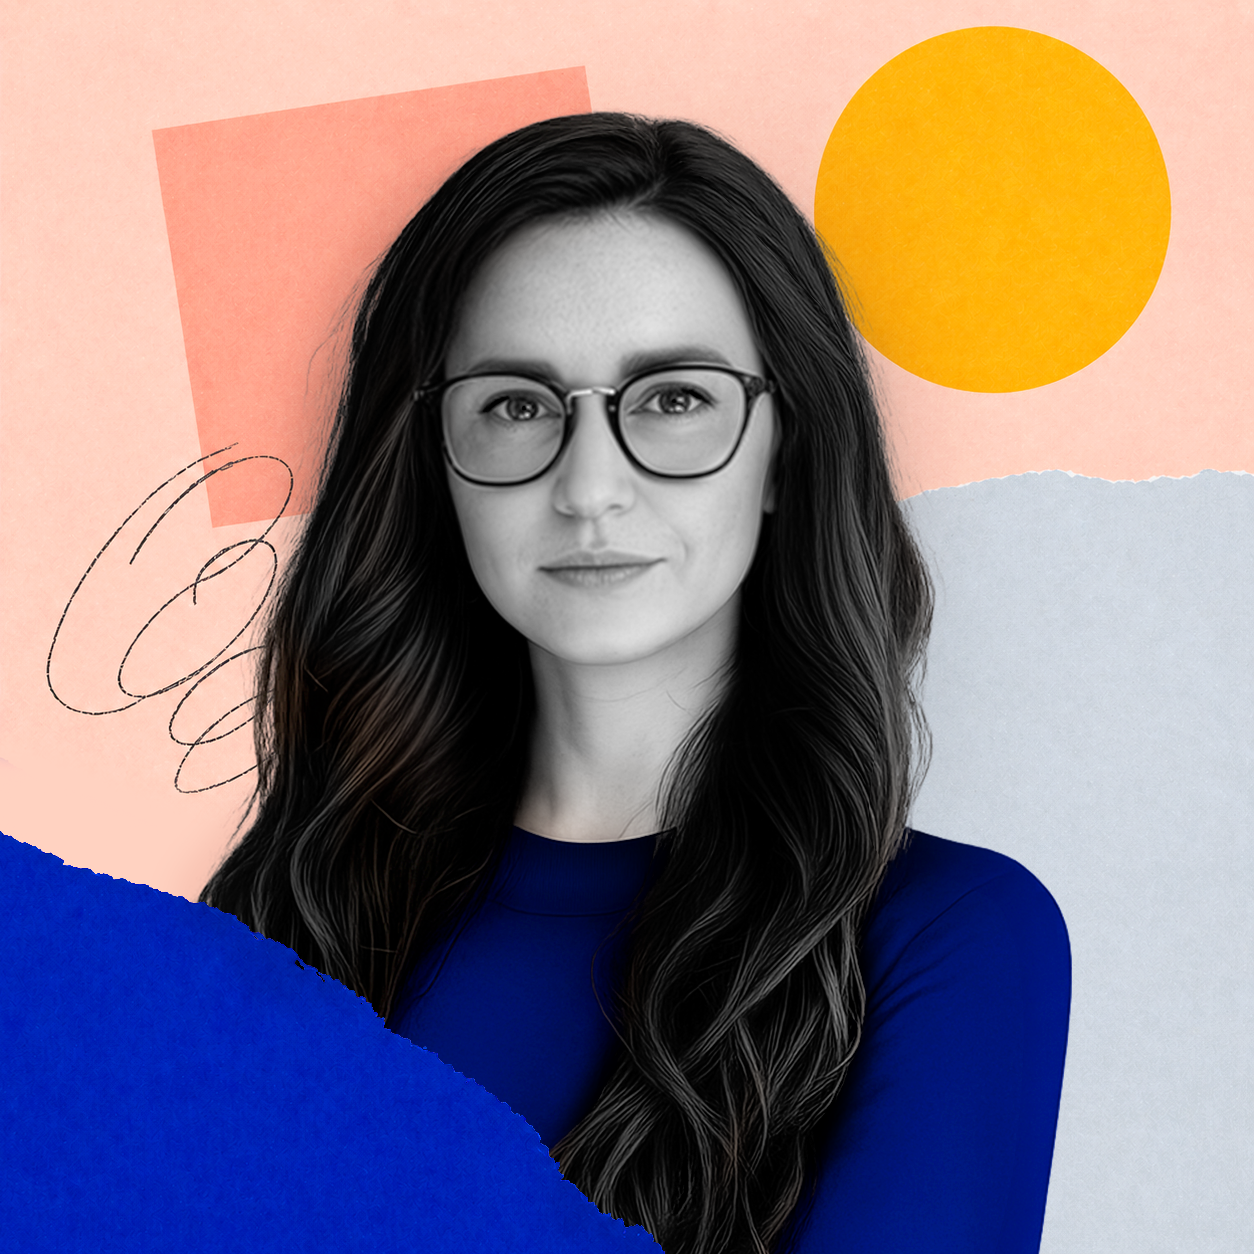
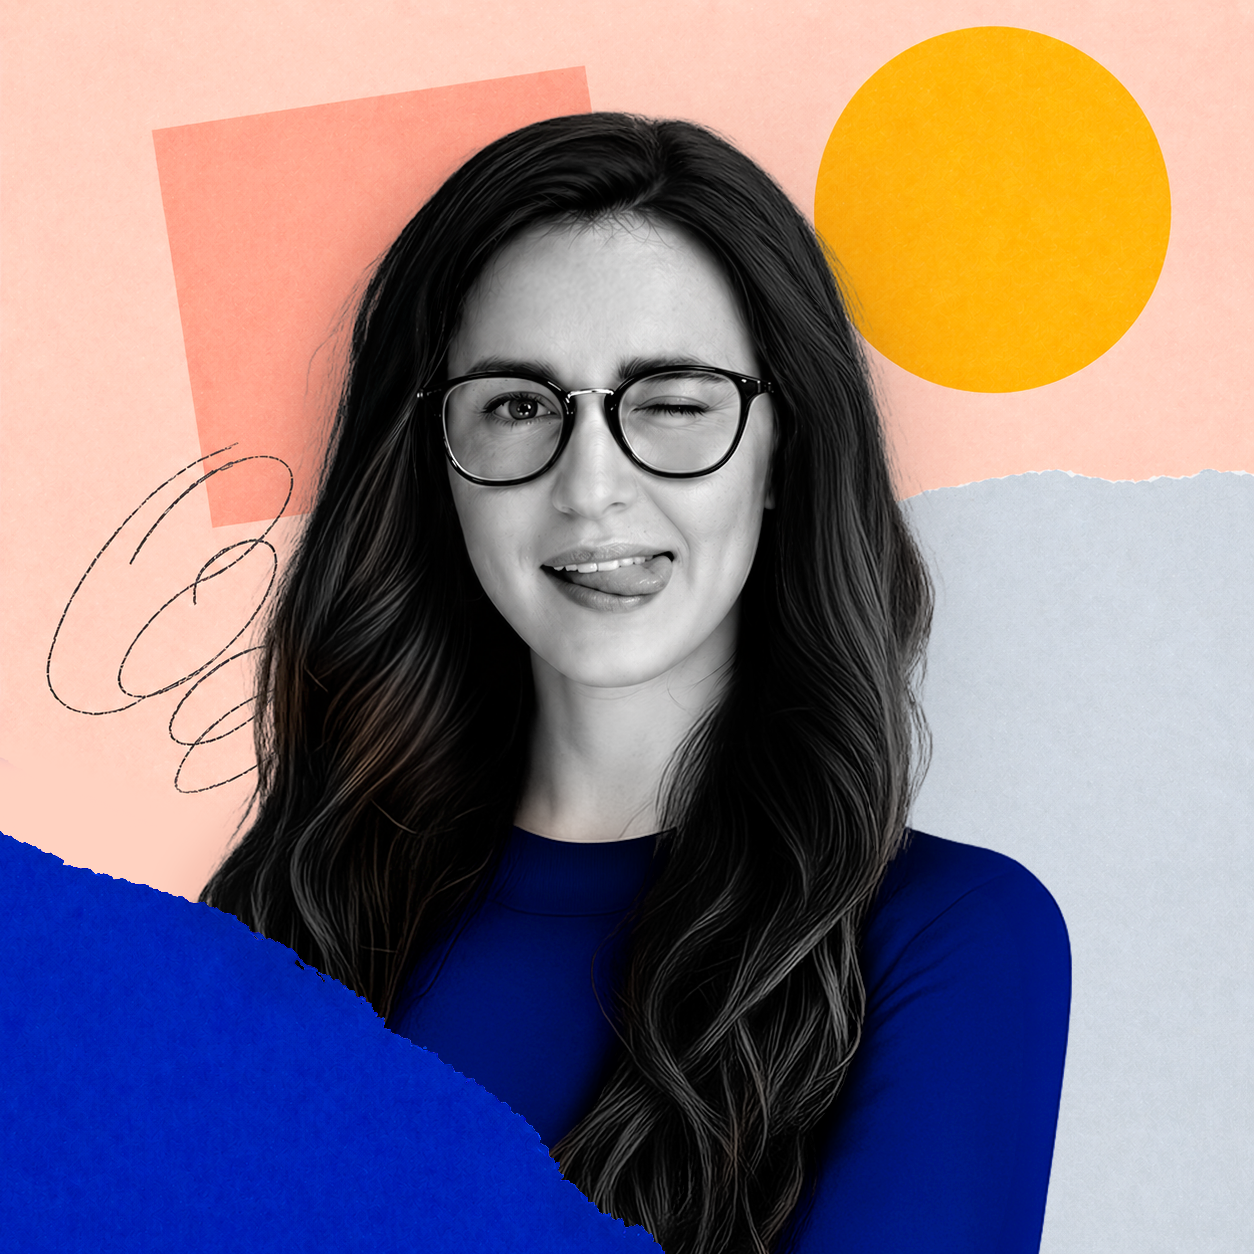
“footer-old”

Changed region(s): [[0.311, 0.1555, 0.622, 0.5598]]

diff --git a/about.html b/about.html
@@ -894,16 +894,6 @@
             opacity: 1;
         }
 
-        .about-portrait-hover-slot > img.lqip-fadein.lqip-loaded {
-            opacity: 0;
-        }
-
-        @media (hover: hover) and (pointer: fine) {
-            .about-portrait-wrap:hover .about-portrait-hover-slot > img.lqip-fadein.lqip-loaded {
-                opacity: 1;
-            }
-        }
-
         .about-portrait-wrap.lqip-portrait-host {
             background-image: var(--lqip);
             background-size: cover;
@@ -1419,10 +1409,10 @@
                      width="400"
                      height="400"
                      decoding="async"/>
-                <div class="about-portrait-hover-slot lqip-parallax-host" data-lqip-ref="assets/images/About-image-hover.png">
+                <div class="about-portrait-hover-slot">
                     <img src="assets/images/About-image-hover.png"
                          alt=""
-                         class="about-portrait about-portrait--hover lqip-fadein"
+                         class="about-portrait about-portrait--hover"
                          width="400"
                          height="400"
                          decoding="async"

diff --git a/index.html b/index.html
@@ -1521,16 +1521,6 @@
             opacity: 1;
         }
 
-        .about-portrait-hover-slot > img.lqip-fadein.lqip-loaded {
-            opacity: 0;
-        }
-
-        @media (hover: hover) and (pointer: fine) {
-            .about-portrait-wrap:hover .about-portrait-hover-slot > img.lqip-fadein.lqip-loaded {
-                opacity: 1;
-            }
-        }
-
         .about-portrait-wrap.lqip-portrait-host {
             background-image: var(--lqip);
             background-size: cover;
